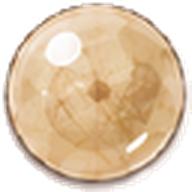
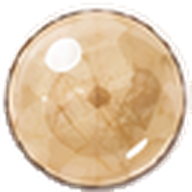
Fix bead sprite crops including printed material labels

diff --git a/cocos-web/index.52424.js b/cocos-web/index.52424.js
@@ -1,4 +1,4 @@
-System.register(["./application.c0ed7.js"], function (_export, _context) {
+System.register(["./application.14a90.js"], function (_export, _context) {
   "use strict";
 
   var Application, canvas, $p, bcr, application;
@@ -6,8 +6,8 @@ System.register(["./application.c0ed7.js"], function (_export, _context) {
     return System["import"](url);
   }
   return {
-    setters: [function (_applicationC0ed7Js) {
-      Application = _applicationC0ed7Js.Application;
+    setters: [function (_application14a90Js) {
+      Application = _application14a90Js.Application;
     }],
     execute: function () {
       canvas = document.getElementById('GameCanvas');

diff --git a/cocos-web/application.14a90.js b/cocos-web/application.14a90.js
@@ -14,7 +14,7 @@ System.register([], function (_export, _context) {
       _export("Application", Application = /*#__PURE__*/function () {
         function Application() {
           _classCallCheck(this, Application);
-          this.settingsPath = 'src/settings.1883b.json';
+          this.settingsPath = 'src/settings.126a4.json';
           this.showFPS = false;
         }
         _createClass(Application, [{

diff --git a/cocos-web/index.html b/cocos-web/index.html
@@ -56,7 +56,7 @@
 <script src="src/import-map.151c7.json" type="systemjs-importmap" charset="utf-8"> </script>
 
 <script>
-    System.import('./index.54d1a.js').catch(function(err) { console.error(err); })
+    System.import('./index.52424.js').catch(function(err) { console.error(err); })
 </script>
 
 </body>

diff --git a/cocos/tools/prepare-diy-art.py b/cocos/tools/prepare-diy-art.py
@@ -30,8 +30,15 @@ if '--stage-only' in sys.argv:
     sys.exit(0)
 content=(Path('cocos/assets/scripts/content.ts').read_text(encoding='utf-8')); beads=json.loads(content.split('export const BEADS = ')[1].split(';')[0]);
 # Extract each supplied round bead at its actual edge; feather the alpha by half a pixel.
+bead_grids=[
+    ([141,284,424,568],[781,873,966],[819,911,1005]),
+    ([146,286,425,565],[803,889,976],[840,924,1009]),
+    ([146,286,425,565],[805,896,988],[840,930,1024]),
+]
 for i,b in enumerate(beads):
-    im=images[b['category']];cx=[146,286,425,565][b['cell']%4];cy=[805,896,988][b['cell']//4];r=31
+    # Each reference has different spacing; a shared grid captures printed names.
+    xs,ys,label_tops=bead_grids[b['category']];row=b['cell']//4;im=images[b['category']];cx=xs[b['cell']%4];cy=ys[row];r=31
+    assert cy+r+1<=label_tops[row], f'Bead {i} crop overlaps its printed label'
     tile=im.crop((cx-r-1,cy-r-1,cx+r+1,cy+r+1)).convert('RGBA');mask=Image.new('L',tile.size);ImageDraw.Draw(mask).ellipse((1,1,63,63),fill=255);tile.putalpha(mask.filter(ImageFilter.GaussianBlur(.35)));save(tile.resize((192,192),Image.Resampling.LANCZOS),'beads',f'bead-{i}.png')
 # Flood only the connected pale card backdrop; retain white pearls inside the gold outlines.
 from collections import deque

diff --git a/progress.md b/progress.md
@@ -290,3 +290,8 @@ Original prompt: 根据 E:\Game\手串\铅笔2 美术制作手机游戏原型，
 - A completed gesture saves once and creates one undo step. A cancelled gesture restores its original dimensions, unchanged taps do not add undo history, and unselected/empty slots cannot resize. Stock, other beads, sale pricing, gathered-only material rules and existing game progress are unchanged.
 - Reused native Cocos nodes without dependencies. Synced the original E: Creator project and refreshed only the three crafting scene subtrees; verified the other fifteen authored pages are preserved exactly.
 - Validation: 116 Cocos source/controller/production tests plus 20 legacy tests passed; Creator 3.8.2 production build and source/build hashes verified. Native Chromium touch input passed upper-bead selection, slider taps/live drag/cancel, one-step undo, equal-material independence, bounds, save/reload/preview/list/sale/gallery/remake and animation at 360/390/1440 widths. Recorded the engine's expected preventDefault diagnostic for synthetic noncancelable touchcancel separately; no unexpected page/console/HTTP errors. Physical phone testing was not performed.
+
+## 2026-11-05 · Remove baked labels from material artwork
+- Fixed the art extractor's shared-grid assumption: the current jewelry, crystal and wood reference sheets use different bead centers and row spacing. The old lower crystal crops included printed material names inside their circular masks. Each reference now has its own grid and an asserted boundary before its printed labels.
+- Re-extracted the 24 jewelry/crystal sprites with their existing UUIDs and dimensions. Inspected all 36 beads and 12 charms as contact sheets. The wood/charm art, DIY stage, native layouts, gameplay scripts, saves, material IDs and legitimate counters remain unchanged; shared sprites fix the match board, collected-material HUD, DIY and previews together.
+- Validation: the extractor's 36 crop-boundary assertions passed; 116 Cocos source/controller/production tests and 20 legacy tests passed, with Creator 3.8.2 build and source/build hash checks. Native browser flows passed levels 1/5/6/13, real collection/unlocks and all four DIY tabs. Focused level-14 play verified the affected crystal sprite on the board/HUD and in DIY, an actual swap, and 360/390/1440 screenshots, with no page/console/HTTP errors. Reviewed screenshots for stray glyphs. Original E: project assets/tool synced; authored scene remains unchanged. Physical phone testing was not performed.
